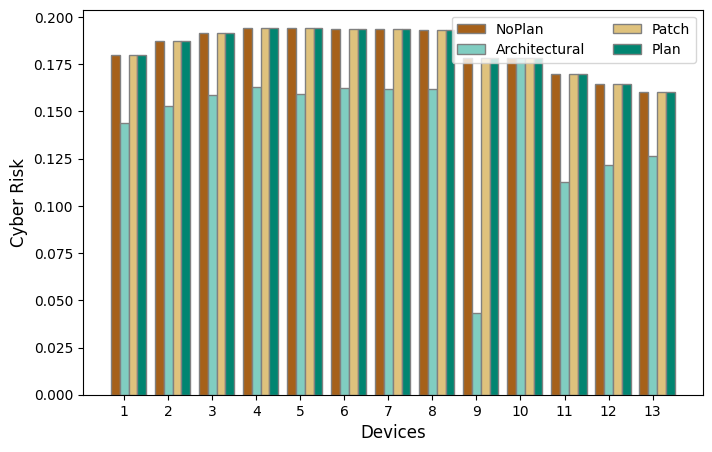
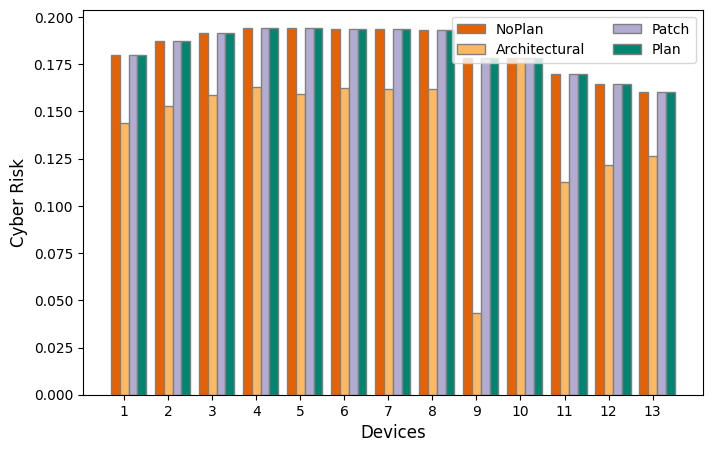
experiments

diff --git a/experiments/security.py b/experiments/security.py
@@ -10,13 +10,13 @@ sys.path.append(os.path.join(os.path.dirname(os.path.realpath(__file__)), os.par
 from config import NET_TAGS
 
 
-ARCHITECTURAL_STRATEGIES = ['17','18','19','29','21','22','23','24','25']
+ARCHITECTURAL_STRATEGIES = ['17','18','19','29','21','22','23','24','25','10','20']
 PATCHING_STRATEGIES = ['1','2','3','4','5','6','7','8','9','19','11','12','13','14','15','16']
 
 COLORS = {
-    "NoPlan":"#a6611a",
-    "Architectural":"#80cdc1",
-    "Patching":"#dfc27d",
+    "NoPlan":"#e66101",
+    "Architectural":"#fdb863",
+    "Patching":"#b2abd2",
     "Trade-off":"#018571",
 }
 """
@@ -148,10 +148,10 @@ def plot_qos(file_security_metrics,file_qos_metrics,file_plan,folder_plans,file_
     noplandict={}
     df_noplan = pd.read_csv(file_qos_metrics)
     list_app = list(df_noplan["app"])
-    for app in list_app:
-        for d in devices:
-            deviceID = d["deviceId"]
-            noplandict[deviceID]=[0]
+    for d in devices:
+        deviceID = d["deviceId"]
+        noplandict[deviceID]=[0]
+        for app in list_app:
             if "app_"+app in d["applications"] or app in d["applications"]:
                 values = df_noplan[df_noplan["app"] == app].drop(['topic','app'], axis=1)
                 values_list = [x for xs in np.array(values).tolist() for x in xs]
@@ -161,30 +161,38 @@ def plot_qos(file_security_metrics,file_qos_metrics,file_plan,folder_plans,file_
     #Architectural/Patch
     archdict={}
     patchdict={}
-    plan={}
-    for filename in os.listdir(folder_plans):
-        if "csv" not in filename: continue
-        df_file = pd.read_csv(folder_plans+filename)
-        name_dev = filename.replace(".csv","")
+    plandict={}
+    for d in devices:
+        deviceID = d["deviceId"]
+        archdict[deviceID]=[0]
+        patchdict[deviceID]=[0]
+        plandict[deviceID]=[0]
+        for filename in os.listdir(folder_plans):
+            if "csv" not in filename: continue
+            df_file = pd.read_csv(folder_plans+filename)
+            name_dev = filename.replace(".csv","")
         
-        for d in devices:
-            deviceID = d["deviceId"]
-            archdict[deviceID]=[0]
-            patchdict[deviceID]=[0]
-            plan[deviceID]=[0]
             if name_dev == deviceID or name_dev in d["applications"]:
                 strategyIDs = list(df_file["mitigationId"])
                 for sID in strategyIDs:
                     if str(sID) in ARCHITECTURAL_STRATEGIES:
-                        if deviceID not in archdict.keys(): archdict[deviceID] = [float(df_file[df_file['mitigationId'] == sID][metricfield])]
-                        else: archdict[deviceID].append(float(df_file[df_file['mitigationId'] == sID][metricfield]))
+                        # if deviceID not in archdict.keys(): archdict[deviceID] = [float(df_file[df_file['mitigationId'] == sID][metricfield])]
+                        # else: archdict[deviceID].append(float(df_file[df_file['mitigationId'] == sID][metricfield]))
+                        archdict[deviceID].append(float(df_file[df_file['mitigationId'] == sID][metricfield]))
                     if str(sID) in PATCHING_STRATEGIES:
-                        if deviceID not in patchdict.keys(): patchdict[deviceID] = [float(df_file[df_file['mitigationId'] == sID][metricfield])]
-                        else: patchdict[deviceID].append(float(df_file[df_file['mitigationId'] == sID][metricfield]))
+                        # if deviceID not in patchdict.keys(): patchdict[deviceID] = [float(df_file[df_file['mitigationId'] == sID][metricfield])]
+                        # else: patchdict[deviceID].append(float(df_file[df_file['mitigationId'] == sID][metricfield]))
+                        patchdict[deviceID].append(float(df_file[df_file['mitigationId'] == sID][metricfield]))
                     if str(sID) in list(map(str, full_plan[deviceID])): 
-                        if deviceID not in plan.keys(): plan[deviceID] = [float(df_file[df_file['mitigationId'] == sID][metricfield])]
-                        else: plan[deviceID].append(float(df_file[df_file['mitigationId'] == sID][metricfield]))
-    
+                        # if deviceID not in plandict.keys(): plandict[deviceID] = [float(df_file[df_file['mitigationId'] == sID][metricfield])]
+                        # else: plandict[deviceID].append(float(df_file[df_file['mitigationId'] == sID][metricfield]))
+                        plandict[deviceID].append(float(df_file[df_file['mitigationId'] == sID][metricfield]))
+                      
+                      
+    # if net_tag=="SHnet": 
+    #     print(noplandict)
+    #     print(plandict)
+      
     noplan = []
     arch = []
     patch = []
@@ -195,7 +203,15 @@ def plot_qos(file_security_metrics,file_qos_metrics,file_plan,folder_plans,file_
         noplan.append(mean(noplandict[deviceID]))
         arch.append(mean(archdict[deviceID]))
         patch.append(mean(patchdict[deviceID]))
-        plan.append(mean(patchdict[deviceID]))
+        plan.append(mean(plandict[deviceID]))
+        
+    # for i in range(0,len(noplan)):
+    #     if noplan[i] != 0 and arch[i] == 0:
+    #         arch[i] = mean(arch)
+    #         patch[i] = mean(patch)
+    #         plan[i] = mean(plan)
+    #     elif noplan[i] == 0 and arch[i] != 0:
+    #         noplan[i] = max(noplan)
     
     # set width of bar 
     barWidth = 0.2
